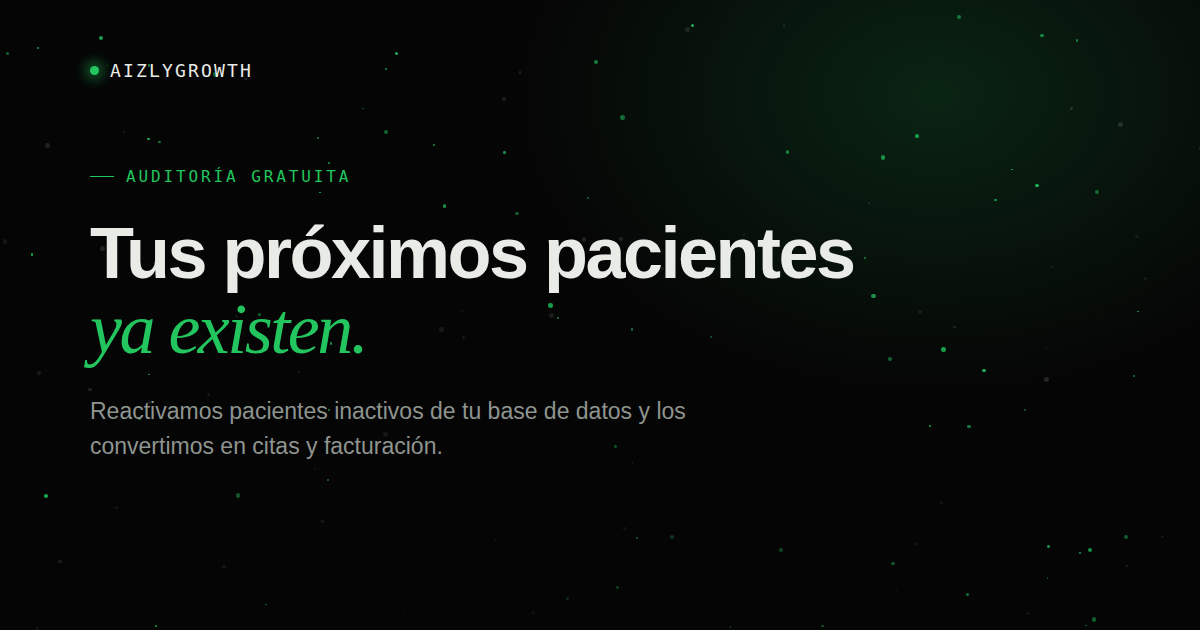
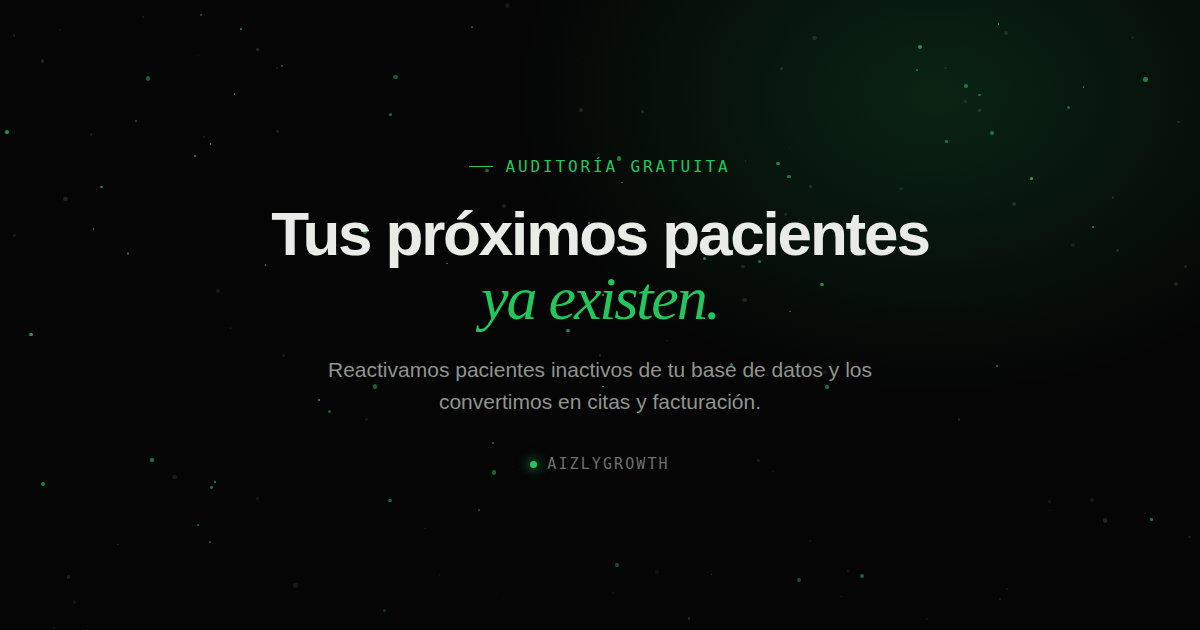
Add files via upload

diff --git a/index.html b/index.html
@@ -356,7 +356,7 @@
     <a href="#process">Proceso</a>
     <a href="#calc">Calculadora</a>
     <a href="#final">Contacto</a>
-    <a href="https://wa.me/5493757364194" class="nav-cta" target="_blank" rel="noopener">Auditoría Gratuita</a>
+    <a href="https://wa.me/5493757364194?text=Hola%21%20Vi%20la%20p%C3%A1gina%20de%20AizlyGrowth%20y%20quiero%20la%20auditor%C3%ADa%20gratuita%20de%20mi%20base%20de%20pacientes%20%F0%9F%99%8C" class="nav-cta" target="_blank" rel="noopener">Auditoría Gratuita</a>
   </div>
 </nav>
 
@@ -368,8 +368,8 @@
     <h1 class="hero-headline fade-up" id="heroHeadline">Tus próximos pacientes<br/>ya existen.</h1>
     <p class="hero-sub fade-up" id="heroSub">Reactivamos pacientes inactivos de tu base de datos y los convertimos nuevamente en citas, tratamientos y facturación.</p>
     <div class="hero-ctas fade-up" id="heroCtas">
-      <a href="https://wa.me/5493757364194" class="btn btn-primary" target="_blank" rel="noopener">Auditar Mi Base de Datos</a>
-      <a href="https://wa.me/[phone redacted]" class="btn btn-ghost" target="_blank" rel="noopener">Hablar por WhatsApp</a>
+      <a href="https://wa.me/5493757364194?text=Hola%21%20Vi%20la%20p%C3%A1gina%20de%20AizlyGrowth%20y%20quiero%20la%20auditor%C3%ADa%20gratuita%20de%20mi%20base%20de%20pacientes%20%F0%9F%99%8C" class="btn btn-primary" target="_blank" rel="noopener">Auditar Mi Base de Datos</a>
+      <a href="https://wa.me/[phone redacted]?text=Hola%21%20Vi%20la%20p%C3%A1gina%20de%20AizlyGrowth%20y%20quiero%20la%20auditor%C3%ADa%20gratuita%20de%20mi%20base%20de%20pacientes%20%F0%9F%99%8C" class="btn btn-ghost" target="_blank" rel="noopener">Hablar por WhatsApp</a>
     </div>
     <div class="hero-scroll-hint">
       <span>DESPLAZATE</span>
@@ -521,8 +521,8 @@
     <h2 class="final-q fade-up">¿Cuánta facturación está dormida dentro de tu base de datos?</h2>
     <p class="final-sub fade-up">Descubrilo con una auditoría gratuita. Sin compromiso, sin tarjeta, sin vueltas.</p>
     <div class="final-ctas fade-up">
-      <a href="https://wa.me/5493757364194" class="btn btn-primary" target="_blank" rel="noopener">Auditar Mi Base de Datos</a>
-      <a href="https://wa.me/[phone redacted]" class="btn btn-ghost" target="_blank" rel="noopener">WhatsApp [phone redacted]</a>
+      <a href="https://wa.me/5493757364194?text=Hola%21%20Vi%20la%20p%C3%A1gina%20de%20AizlyGrowth%20y%20quiero%20la%20auditor%C3%ADa%20gratuita%20de%20mi%20base%20de%20pacientes%20%F0%9F%99%8C" class="btn btn-primary" target="_blank" rel="noopener">Auditar Mi Base de Datos</a>
+      <a href="https://wa.me/[phone redacted]?text=Hola%21%20Vi%20la%20p%C3%A1gina%20de%20AizlyGrowth%20y%20quiero%20la%20auditor%C3%ADa%20gratuita%20de%20mi%20base%20de%20pacientes%20%F0%9F%99%8C" class="btn btn-ghost" target="_blank" rel="noopener">WhatsApp [phone redacted]</a>
     </div>
   </section>
 
@@ -531,7 +531,7 @@
 <footer>
   <div class="footer-mark">AIZLYGROWTH © 2026 — Reactivación de pacientes.</div>
   <div class="footer-contact">
-    <a href="https://wa.me/5493757364194" target="_blank" rel="noopener">[phone redacted]</a>
+    <a href="https://wa.me/5493757364194?text=Hola%21%20Vi%20la%20p%C3%A1gina%20de%20AizlyGrowth%20y%20quiero%20la%20auditor%C3%ADa%20gratuita%20de%20mi%20base%20de%20pacientes%20%F0%9F%99%8C" target="_blank" rel="noopener">[phone redacted]</a>
     <a href="mailto:[email redacted]">[email redacted]</a>
   </div>
 </footer>